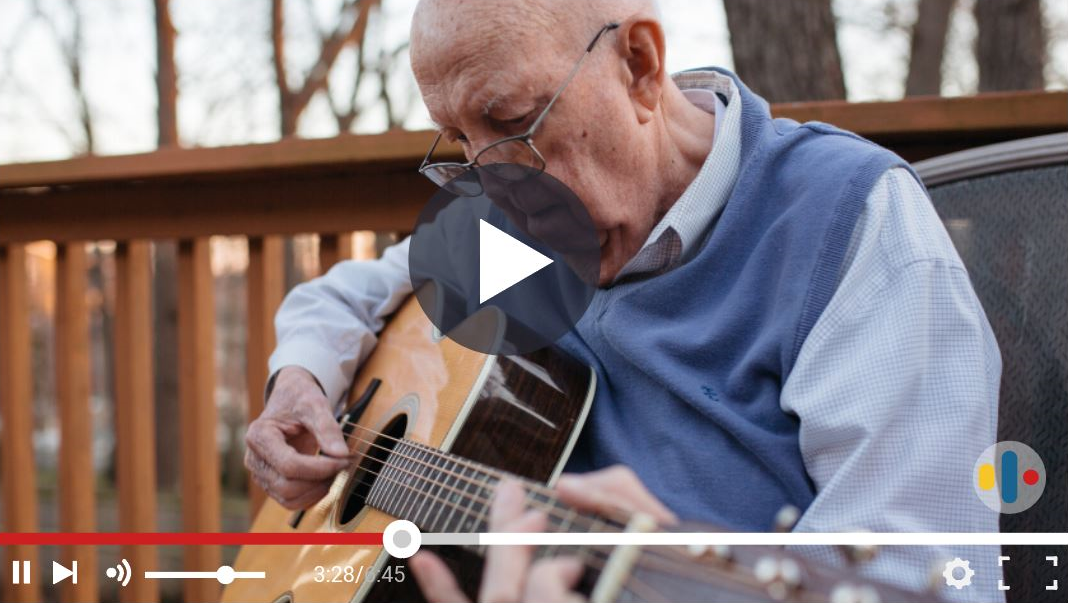
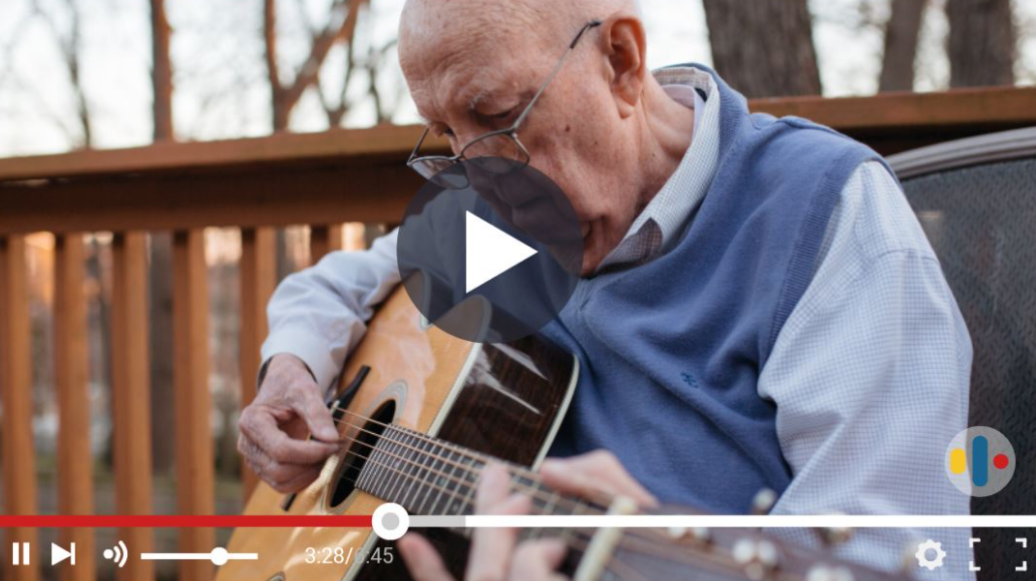
Arreglo foto_2 png

diff --git a/index.html b/index.html
@@ -54,7 +54,7 @@
     </div>
 
     <div class="content__for_img content__for_img_content_2">
-      <img class="content-img content-img_content_2" src="./media/Foto_2.jpg" alt="Imagen familia">
+      <img class="content-img content-img_content_2" src="./media/Foto_2.png" alt="Imagen familia">
     </div>
 
     <div class="content_2_spacer_1"></div>
